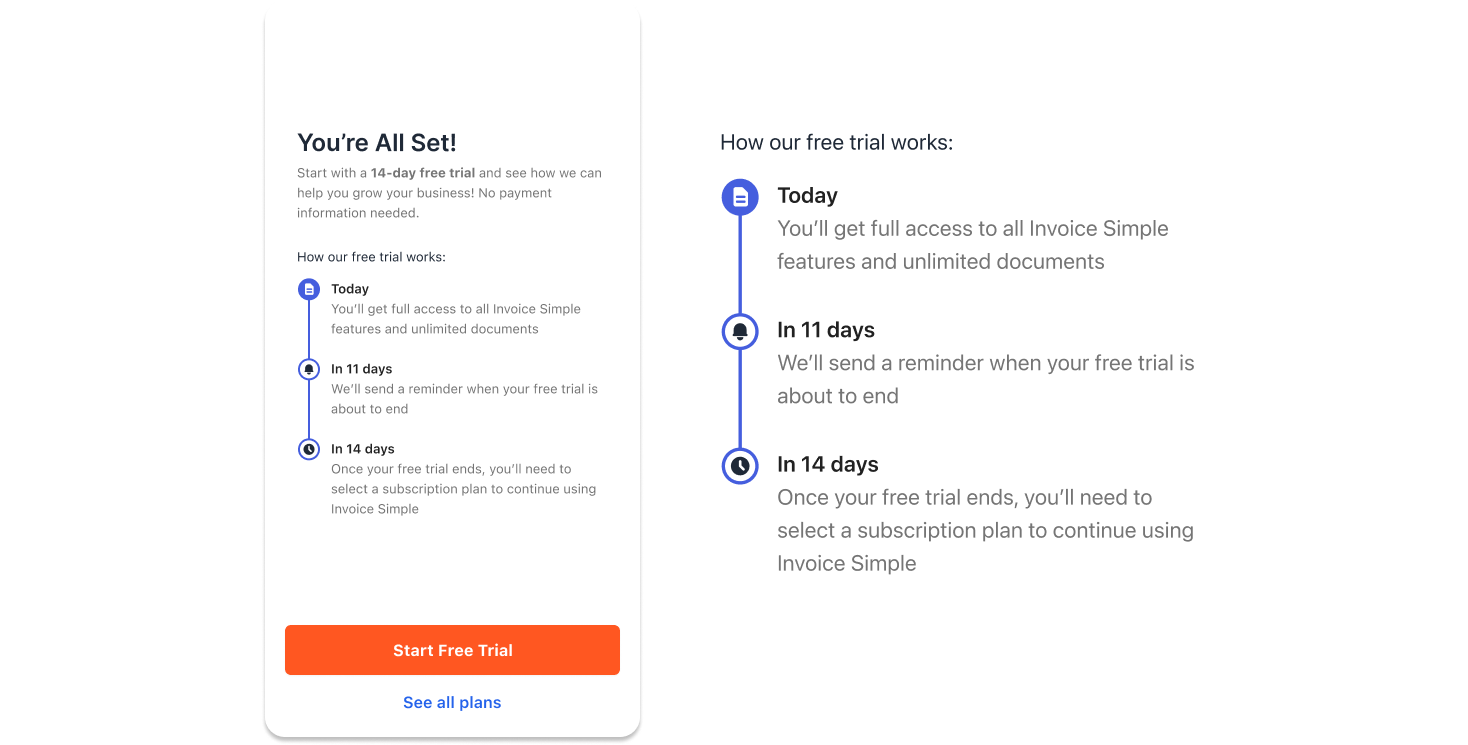
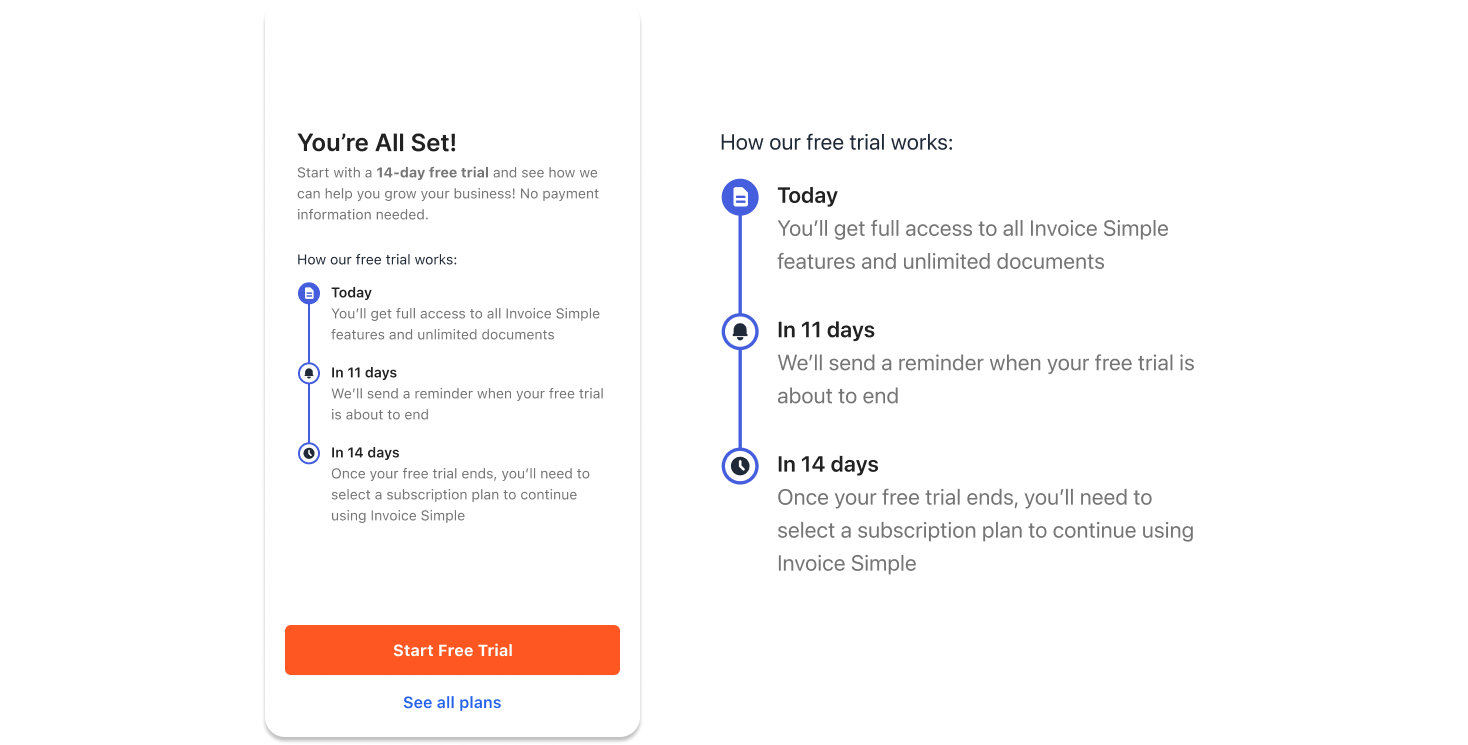
update content

diff --git a/src/pages/free-trial.tsx b/src/pages/free-trial.tsx
@@ -186,8 +186,8 @@ const FreeTrial = () => (
             <SectionInner>
                 <Paragraph>
                     The invoice editor is where new users encounter their “aha!” moment and discover
-                    the value of Invoice Simple. An optional tour serves to get them started on
-                    their first document as soon as they finish onboarding.
+                    the value of Invoice Simple. An optional tour serves to get them started on the
+                    first document they create.
                 </Paragraph>
             </SectionInner>
             <ImageFluid>